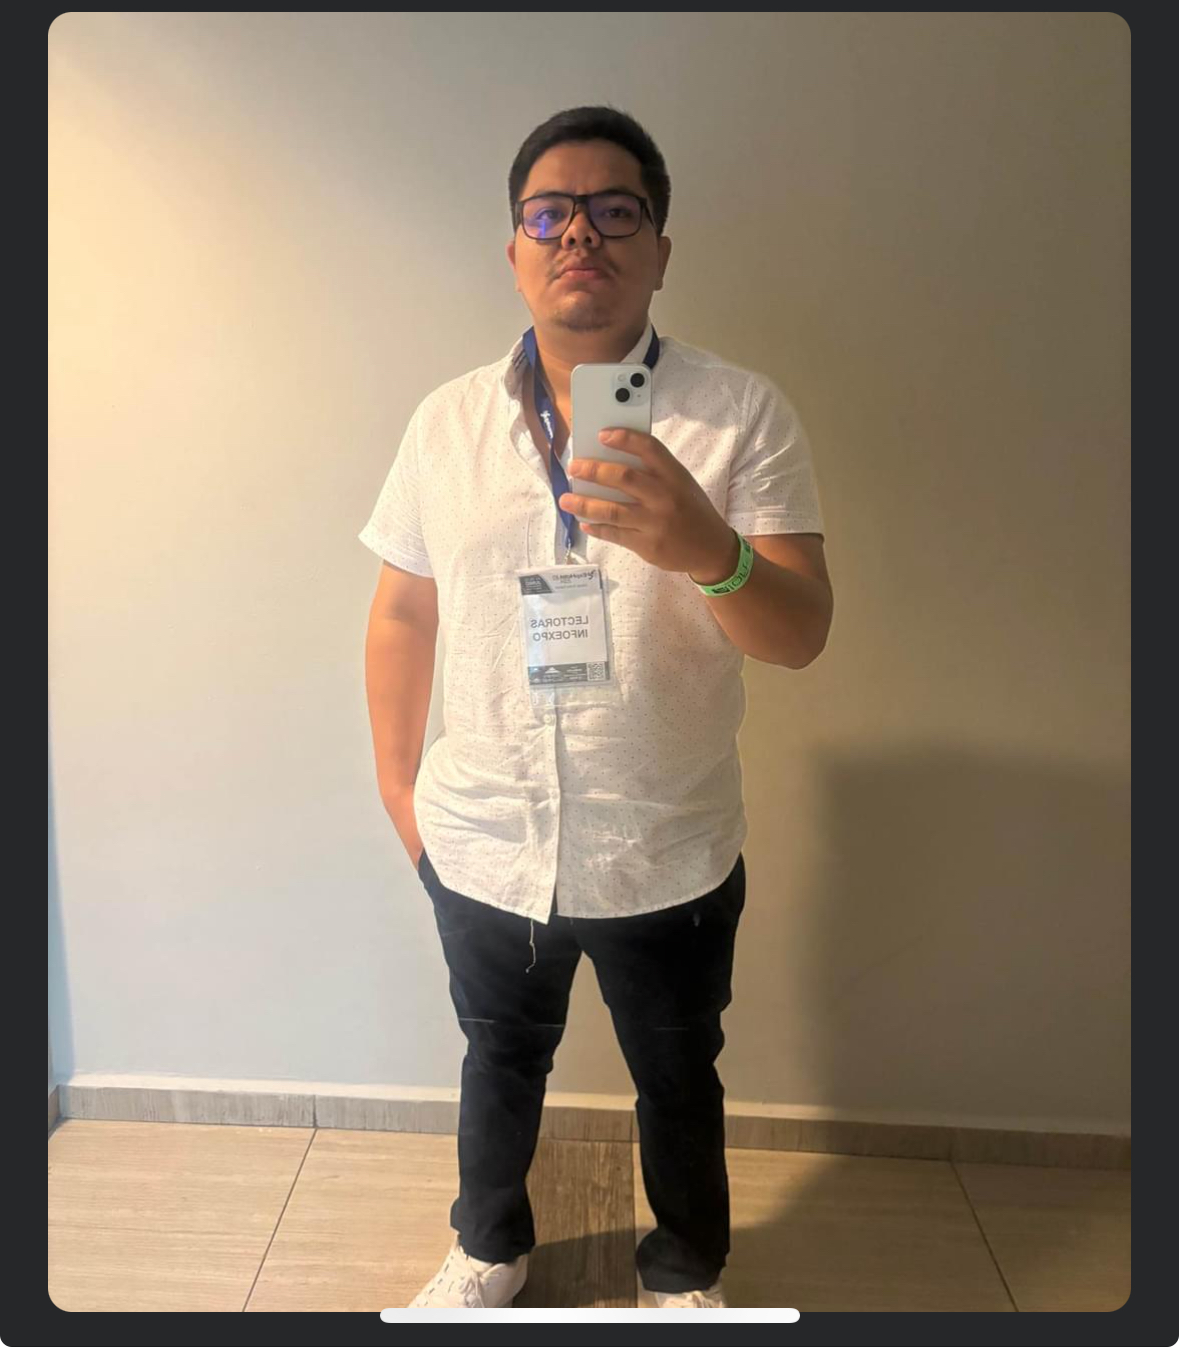
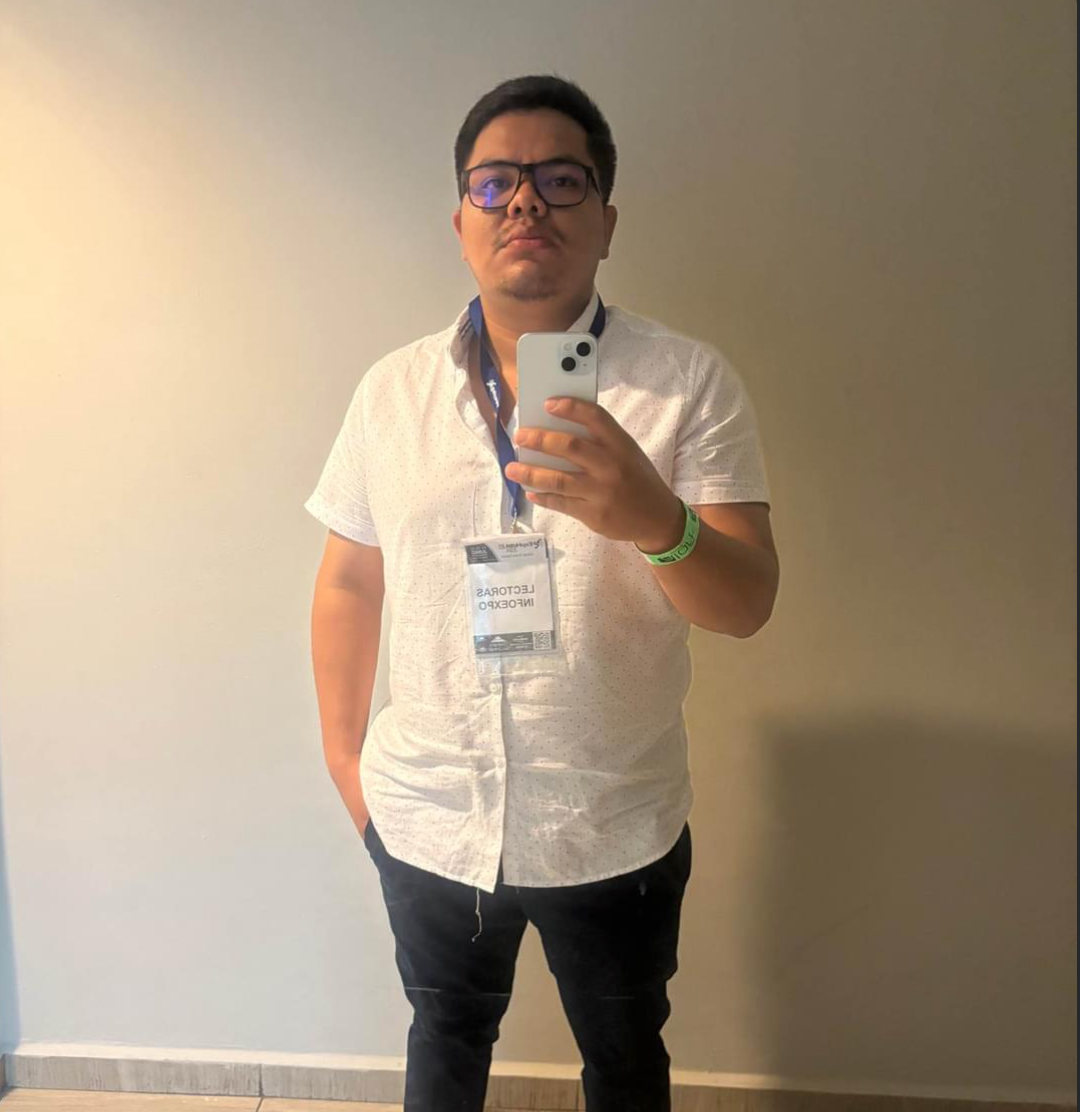
v1.2.1: change profile picture

diff --git a/index.html b/index.html
@@ -98,7 +98,7 @@
         <span class="contact" style="font-size: 1rem"></span> <a href="https://x.com/MigueAJM" style="color: var(--main-color); font-size: 1.25rem">@MigueAJM</a>
       </div>
       <p>&copy; <label id="date-dev"></label> <span class="bye" style="font-size: 1rem"></span><span id="authorFooter" style="color: var(--main-color)"><span></p>
-      <span style="position: absolute;bottom: 3.25rem;font-size: 0.75rem;left: 1rem;">v1.2.0</span>
+      <span style="position: absolute;bottom: 3.25rem;font-size: 0.75rem;left: 1rem;">v1.2.1</span>
     </footer>
   </main>
   <dialog>
